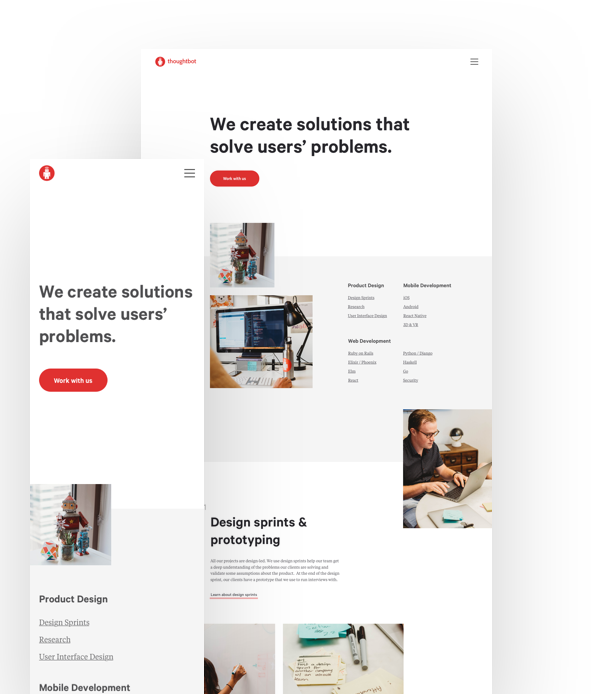
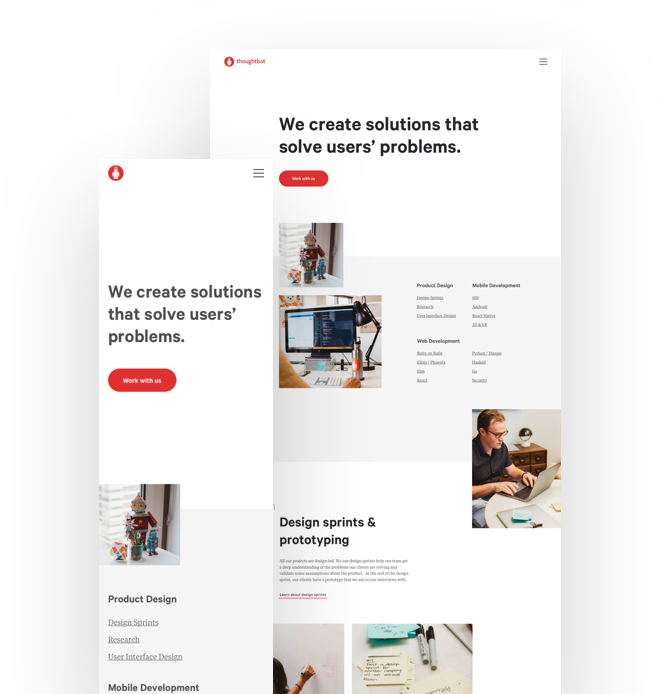
tweaked thoughtbot project thumbnail image

diff --git a/_sass/components/_project.scss b/_sass/components/_project.scss
@@ -32,7 +32,7 @@
   bottom: -10%;
   left: 50%;
   transform: translateX(-50%);
-  width: 80%;
+  width: 90%;
 }
 
 .project__thumbnail--bluvalt {
